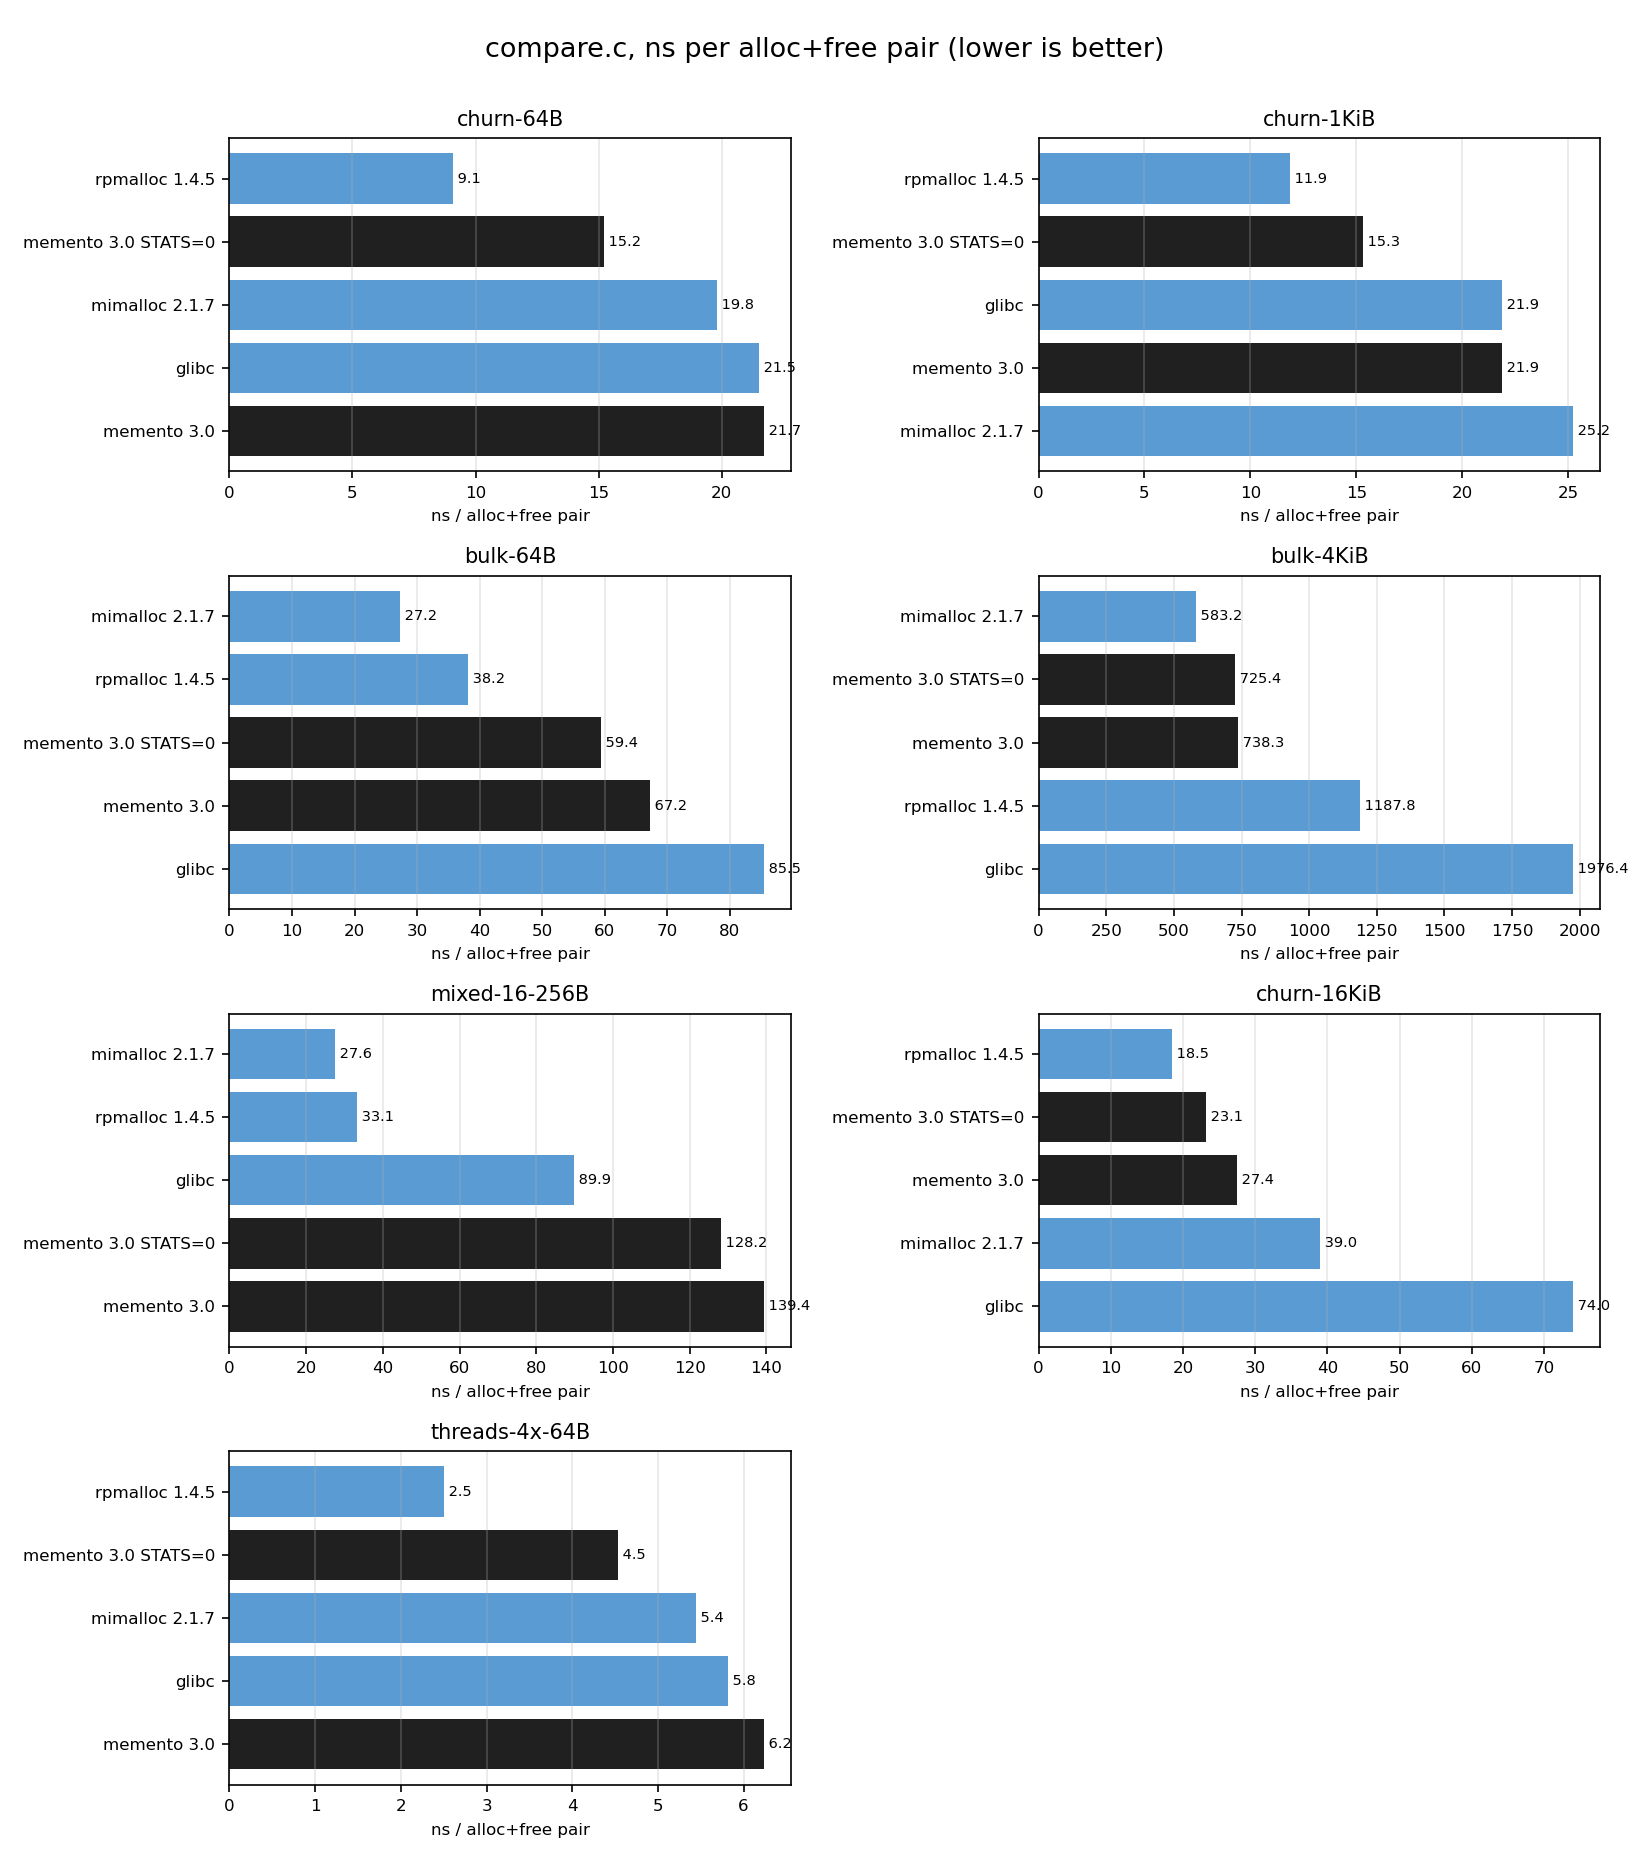
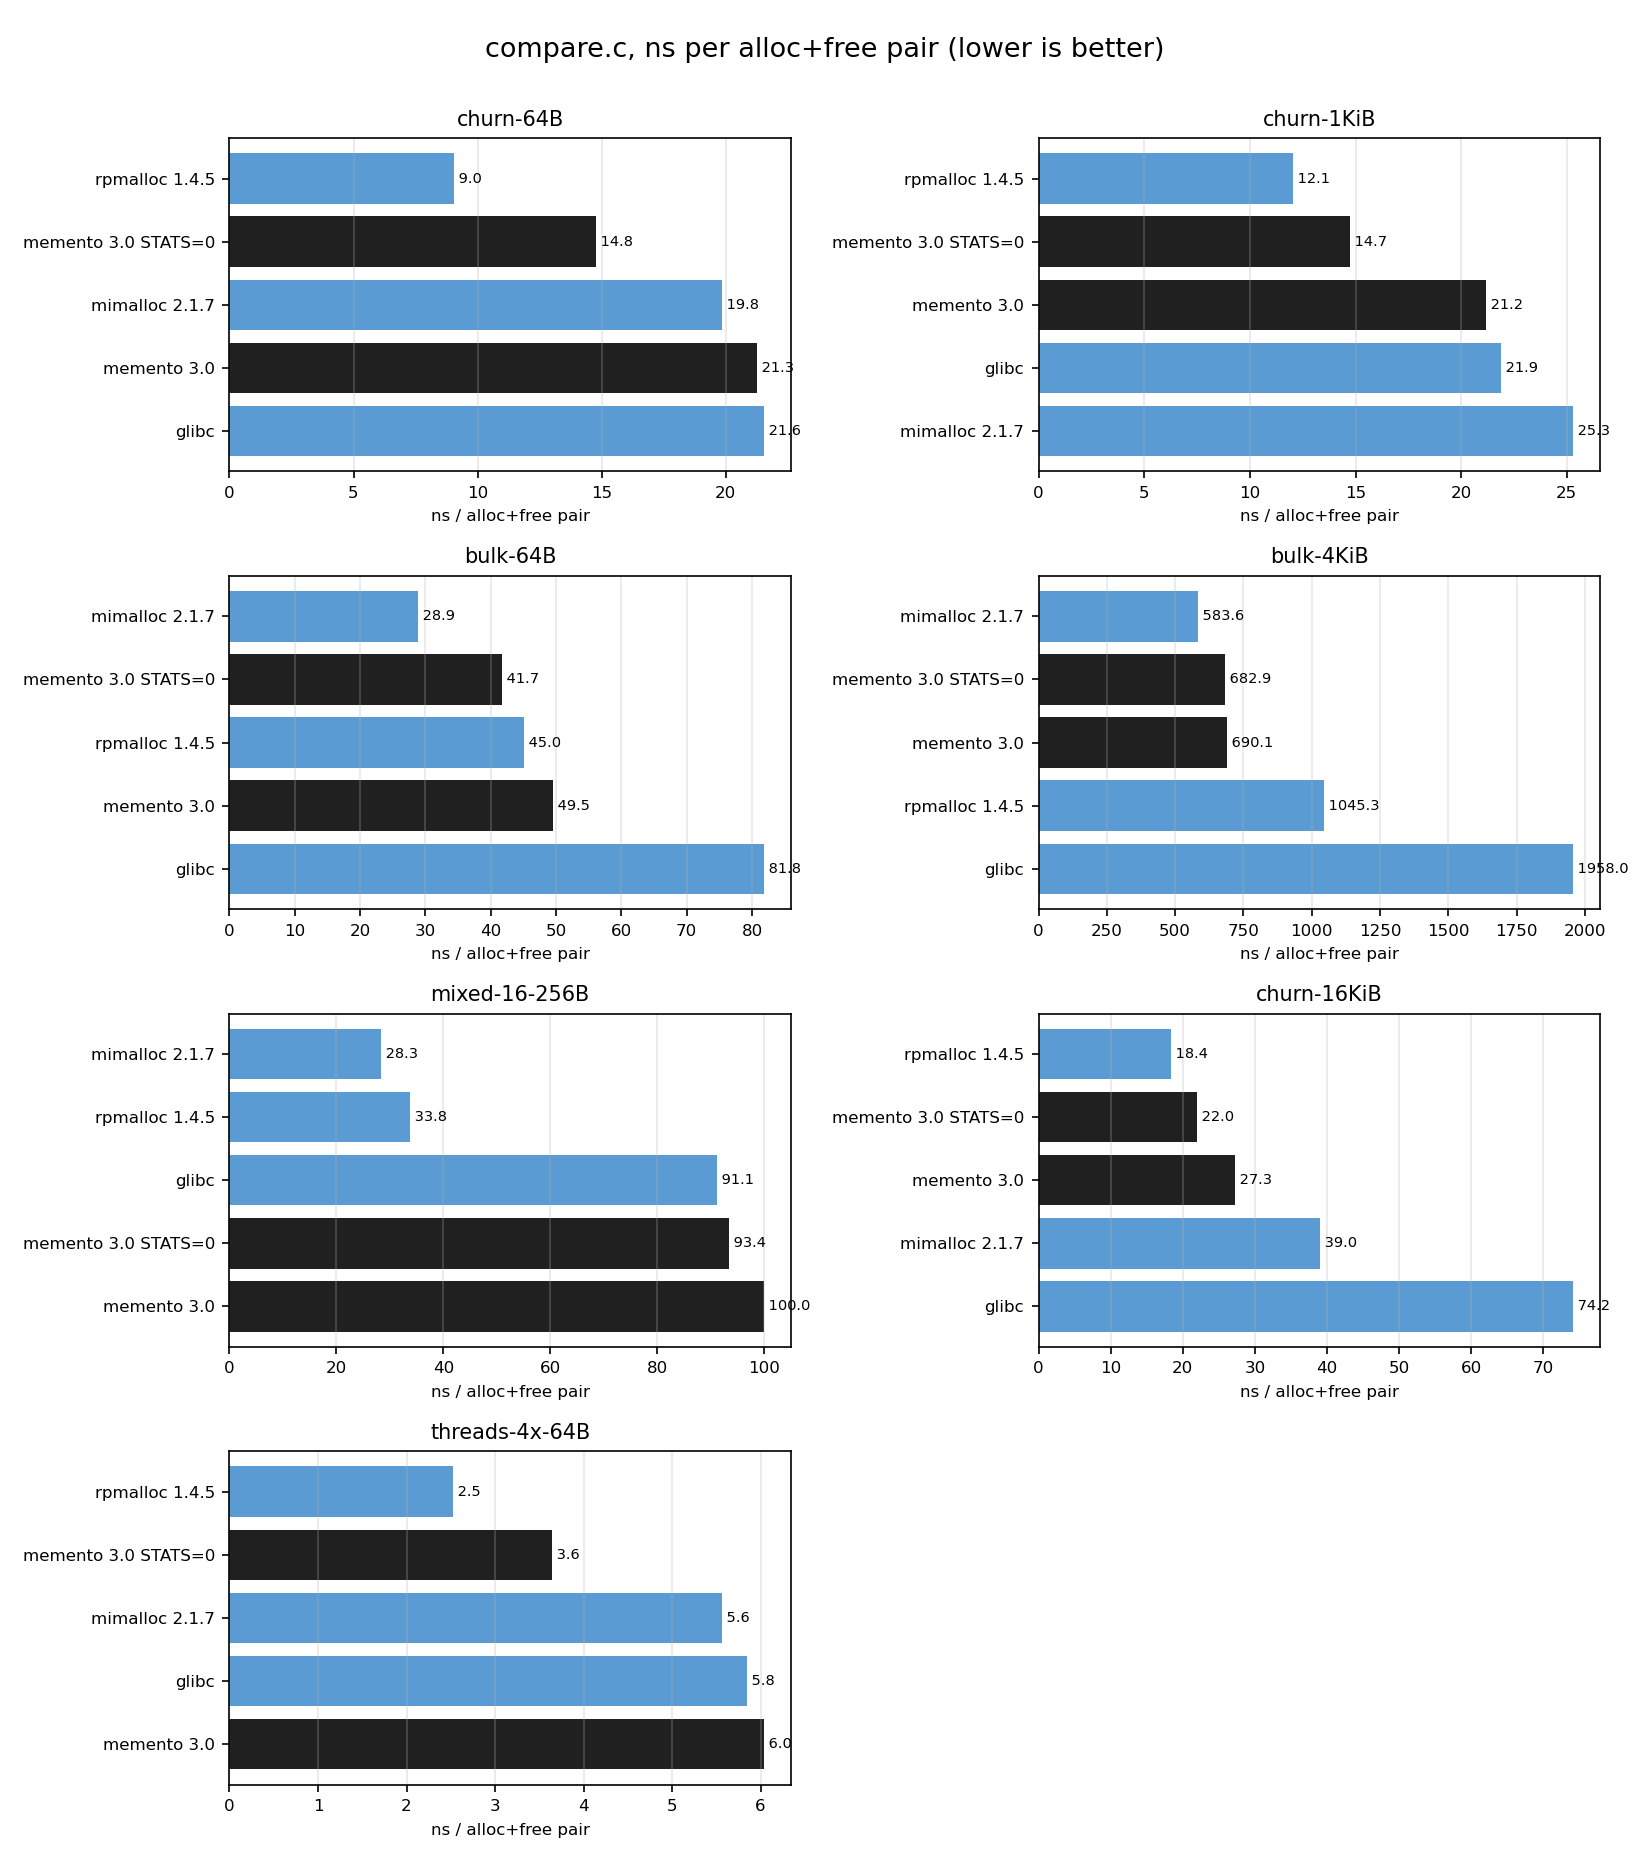
Publish compare.c numbers after bump-carve and polish occupancy comments.
Clang min-of-3 on the Tegra box (clang-22 -O3 -march=native -DNDEBUG):
mixed STATS=0 128→93.4 ns, bulk-64 59.4→41.7 (beats rpmalloc), churn
15.2→14.8. Mixed is still ~3× mimalloc; that row is a cold 11-class
burst.

Comments: packed tcache fill is compile-time ISA; page refill fills
to tcache depth from recycled then bump.

diff --git a/include/memento.h b/include/memento.h
@@ -218,7 +218,7 @@ extern "C" {
     #define MEMENTO_GLOBAL_PAGE_CACHE 64
 #endif
 
-/* Compile-time ISA for miss-path SIMD. Never cpuid on the hit path. */
+/* Compile-time ISA for packed tcache fill. Never cpuid on the hit path. */
 #ifndef MEMENTO_SIMD_AVX512
     #if defined(__AVX512F__) && defined(__AVX512BW__)
         #define MEMENTO_SIMD_AVX512 1
@@ -243,7 +243,8 @@ extern "C" {
     #endif
 #endif
 
-/* How many blocks to carve into the freelist on a size-class cache miss */
+/* How many blocks to carve on a size-class cache miss (bump-span path).
+ * Page mode fills the tcache to memento_tcache_depth() instead. */
 #ifndef MEMENTO_REFILL_BATCH
     #define MEMENTO_REFILL_BATCH 32
 #endif
@@ -2922,9 +2923,10 @@ static uint32_t memento_tcache_fill_from_page(memento_tcache_bin_t* bin,
 }
 #endif
 
-/* Carve a batch of size-class blocks into the freelist; return one for use.
- * *out_fresh (when given) reports whether the returned block is guaranteed
- * kernel-zero — calloc uses it to skip memset. */
+/* Refill the class tcache from the active page (recycled freelist, then
+ * virgin bump) or, without pages, bump-carve a span. *out_fresh reports
+ * whether the returned block is guaranteed kernel-zero — calloc uses it
+ * to skip memset. */
 static void* memento_refill_size_class(memento_thread_heap_t* MEMENTO_RESTRICT heap,
                                         size_t sc, bool* out_fresh) {
     size_t block_size = memento_size_class_to_size(sc);

diff --git a/README.md b/README.md
@@ -89,10 +89,12 @@ mappings, so the owning span of any pointer is one `AND` away. Inside each
 span sit 32 × 64 KiB *pages* (`MEMENTO_PAGE_SIZE`). Each page is one size
 class; the page header (including the free list and `nused`) lives in the
 same 64 KiB as the blocks, so the hit path does not dirty a span header
-2 MiB away. In front of the active page is a per-class LIFO tcache
-(`MEMENTO_TCACHE_DEPTH`, default 32) so churn is an indexed load off a hot
-line. Spans stay single-class. There are 29 size classes: 16-byte
-granularity up to 256 B, then steps of at most ~28% up to 8 KiB.
+2 MiB away. A fresh page bump-carves slots (no store into the payload);
+recycled blocks sit on the page freelist. In front of the active page is
+a per-class LIFO tcache (`MEMENTO_TCACHE_DEPTH`, default 32) so churn is
+an indexed load off a hot line. Spans stay single-class. There are 29
+size classes: 16-byte granularity up to 256 B, then steps of at most
+~28% up to 8 KiB.
 
 A page's `nused` counts blocks in user hands. When every page in a span is
 empty, the span is parked for reuse. That's the reclamation design.
@@ -232,21 +234,23 @@ Full write-up, the raw CSV, and how to pull in
 
 | workload | memento 3.0 | 3.0 `STATS=0` | mimalloc 2.1.7 | rpmalloc 1.4.5 | glibc |
 |---|---|---|---|---|---|
-| churn 64 B | 21.7 | 15.2 | 19.8 | **9.1** | 21.5 |
-| churn 1 KiB | 21.9 | 15.3 | 25.3 | **11.9** | 21.9 |
-| bulk 64 B | 67.2 | 59.4 | **27.2** | 38.2 | 85.5 |
-| bulk 4 KiB | 738 | 725 | **583** | 1188 | 1976 |
-| mixed 16–256 B | 139 | 128 | **27.6** | 33.1 | 89.9 |
-| churn 16 KiB | 27.4 | 23.1 | 39.0 | **18.5** | 74.0 |
-| 4-thread churn 64 B | 6.2 | 4.5 | 5.4 | **2.5** | 5.8 |
+| churn 64 B | 21.3 | 14.8 | 19.8 | **9.0** | 21.6 |
+| churn 1 KiB | 21.2 | 14.7 | 25.3 | **12.1** | 21.9 |
+| bulk 64 B | 49.5 | 41.7 | **28.9** | 45.0 | 81.9 |
+| bulk 4 KiB | 690 | 683 | **584** | 1045 | 1958 |
+| mixed 16–256 B | 100 | 93.4 | **28.3** | 33.8 | 91.1 |
+| churn 16 KiB | 27.3 | 22.0 | 39.0 | **18.4** | 74.2 |
+| 4-thread churn 64 B | 6.0 | 3.6 | 5.6 | **2.5** | 5.9 |
 
 How to read this without lying to yourself:
 
 - **Against the field:** rpmalloc still owns the hit path (churn, 16 KiB,
-  threads). `STATS=0` memento beats mimalloc and glibc on those three and
-  sits in the same band as glibc on bulk. **Mixed sizes is the remaining
-  gap** — 4–5× the leading pair on this box. That row is span occupancy /
-  page-claim, not the tcache. If nanoseconds are all you want, take
+  threads). `STATS=0` memento beats mimalloc and glibc on those three.
+  **bulk-64 B** now beats rpmalloc and glibc and sits behind mimalloc's
+  unbounded page freelist (41.7 vs 28.9). **Mixed sizes is the remaining
+  gap** — about 3× the leading pair on this box (93 vs 28), down from
+  4–5×. That row is a cold burst across 11 classes: lazy page reset
+  plus bump-carve, not the tcache. If nanoseconds are all you want, take
   rpmalloc. What it won't give you is the rest of this README: heap
   reports, allocation-site attribution, guard-page arenas, proxy layers,
   and a shim that catches your leaks in a running process.
@@ -258,10 +262,10 @@ How to read this without lying to yourself:
   lets v3 notice a span is empty and hand its pages back at all. 2.2.1
   was faster here partly because it *never returned memory to the OS*.
   You can have that row or you can have RSS that comes back; we chose RSS.
-  `-DMEMENTO_STATS=0` is the other lever (21.6 → 14.7 ns here).
+  `-DMEMENTO_STATS=0` is the other lever (21.3 → 14.8 ns here).
 - **bulk-4 KiB is mostly first-touch.** Once spans sit on 2 MiB-aligned
   VA (so THP can actually collapse), memento lands next to mimalloc
-  (738 vs 583 ns) and ahead of rpmalloc and glibc. Before that fix this
+  (690 vs 584 ns) and ahead of rpmalloc and glibc. Before that fix this
   row was a 4K-fault costume at ~1.9 µs.
 
 Run it yourself:
@@ -289,7 +293,7 @@ not vibes.
 | `MEMENTO_SPAN_SIZE` | 2 MiB | Span size; must be a power of two |
 | `MEMENTO_PAGE_SIZE` | 64 KiB | Pages inside each span; must divide span size |
 | `MEMENTO_TCACHE_DEPTH` | 32 | Per-class LIFO tcache slots (RSS vs churn) |
-| `MEMENTO_SIMD_AVX2` / `AVX512` / `NEON` | auto | Miss-path bitmap scan + packed tcache fill; compile-time only |
+| `MEMENTO_SIMD_AVX2` / `AVX512` / `NEON` | auto | Packed tcache fill + optional bmp_first; compile-time only |
 | `MEMENTO_SIGNAL` | 1 | Shim: 0 = do not install SIGUSR1 |
 | `MEMENTO_VA_RESERVE` | 256 MiB | Process-wide reserved VA for span bump (no overmap) |
 | `MEMENTO_GLOBAL_PAGE_CACHE` | 64 | Process-wide empty-span cache |

diff --git a/BENCHMARKS.md b/BENCHMARKS.md
@@ -35,28 +35,30 @@ Absolute nanoseconds are a function of this 1.7 GHz core. Read the
 
 | workload | memento 3.0 | 3.0 `STATS=0` | mimalloc 2.1.7 | rpmalloc 1.4.5 | glibc |
 |---|---:|---:|---:|---:|---:|
-| churn 64 B | 21.7 | 15.2 | 19.8 | **9.1** | 21.5 |
-| churn 1 KiB | 21.9 | 15.3 | 25.3 | **11.9** | 21.9 |
-| bulk 64 B | 67.2 | 59.4 | **27.2** | 38.2 | 85.5 |
-| bulk 4 KiB | 738 | 725 | **583** | 1188 | 1976 |
-| mixed 16–256 B | 139 | 128 | **27.6** | 33.1 | 89.9 |
-| churn 16 KiB | 27.4 | 23.1 | 39.0 | **18.5** | 74.0 |
-| 4-thread churn 64 B | 6.2 | 4.5 | 5.4 | **2.5** | 5.8 |
+| churn 64 B | 21.3 | 14.8 | 19.8 | **9.0** | 21.6 |
+| churn 1 KiB | 21.2 | 14.7 | 25.3 | **12.1** | 21.9 |
+| bulk 64 B | 49.5 | 41.7 | **28.9** | 45.0 | 81.9 |
+| bulk 4 KiB | 690 | 683 | **584** | 1045 | 1958 |
+| mixed 16–256 B | 100 | 93.4 | **28.3** | 33.8 | 91.1 |
+| churn 16 KiB | 27.3 | 22.0 | 39.0 | **18.4** | 74.2 |
+| 4-thread churn 64 B | 6.0 | 3.6 | 5.6 | **2.5** | 5.9 |
 
 How to read it:
 
 - **Hit-path churn.** `STATS=0` is the fair product comparison (the
   default build still carries the counters the diagnostic story wants).
-  rpmalloc remains ahead (~9 vs ~15 ns). mimalloc and glibc sit with the
-  stats-on build on this core.
-- **Mixed sizes** is still the gap: memento is 4–5× the leading pair.
-  That row is span occupancy / page-claim, not the tcache hit. Phase 2
-  SIMD is compiled in (`-march=native` enables NEON on this chip) and
-  was not enough to close it here.
+  rpmalloc remains ahead (~9 vs ~15 ns). `STATS=0` beats mimalloc and
+  glibc on this core.
+- **Mixed sizes** is still the gap: about 3× mimalloc (93 vs 28), down
+  from 4–5×. A fresh page bump-carves without writing the payload;
+  recycled blocks travel the page freelist; pages are reset only when
+  claimed. The STATS=1 mixed row claims ~118 pages (the live payload)
+  rather than 31 per span. The leftover is a cold 11-class burst.
 - **Bulk 64 B / 4 KiB.** 2 MiB-aligned VA lets THP actually collapse:
-  bulk-4 KiB dropped from ~1.9 µs to 738 ns, next to mimalloc (583) and
-  ahead of rpmalloc. bulk-64 B still trails mimalloc/rpmalloc (those two
-  keep a hotter unbounded freelist; we recycle at span grain).
+  bulk-4 KiB sits next to mimalloc (690 vs 584 ns) and ahead of
+  rpmalloc. bulk-64 B (`STATS=0` 41.7) now beats rpmalloc (45) and
+  trails mimalloc (29) — those keep a hotter unbounded freelist; we
+  recycle at span grain with a bounded tcache (depth 32).
 - **16 KiB churn** is the page-run cache: memento beats mimalloc and
   glibc, trails rpmalloc.
 - **Four threads.** Same shape as single-thread churn, scaled. No
